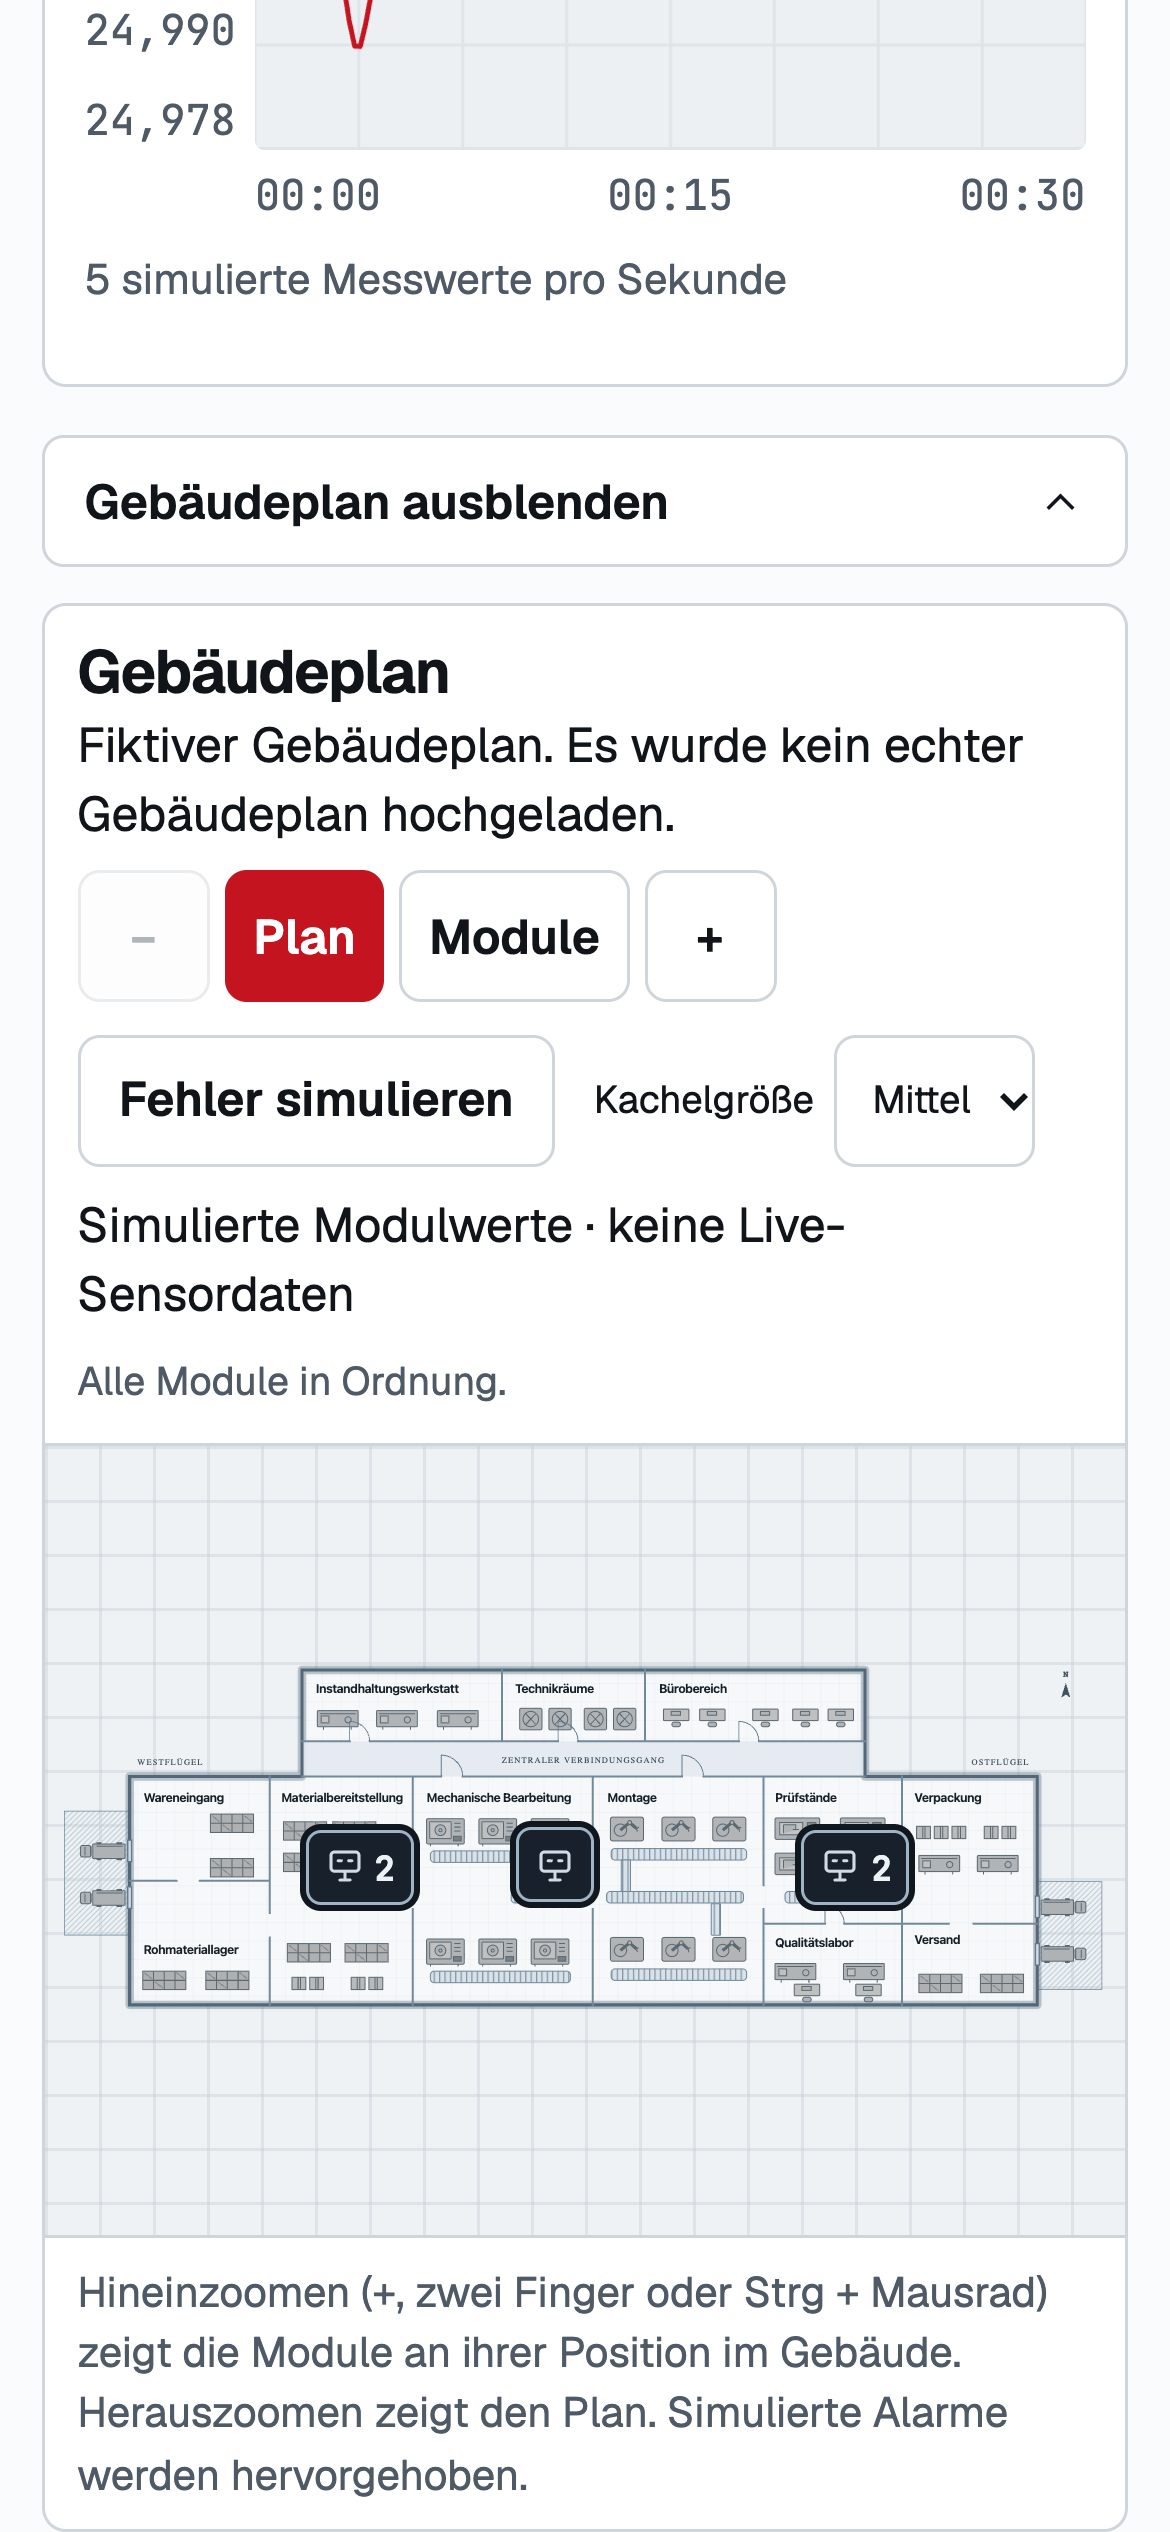
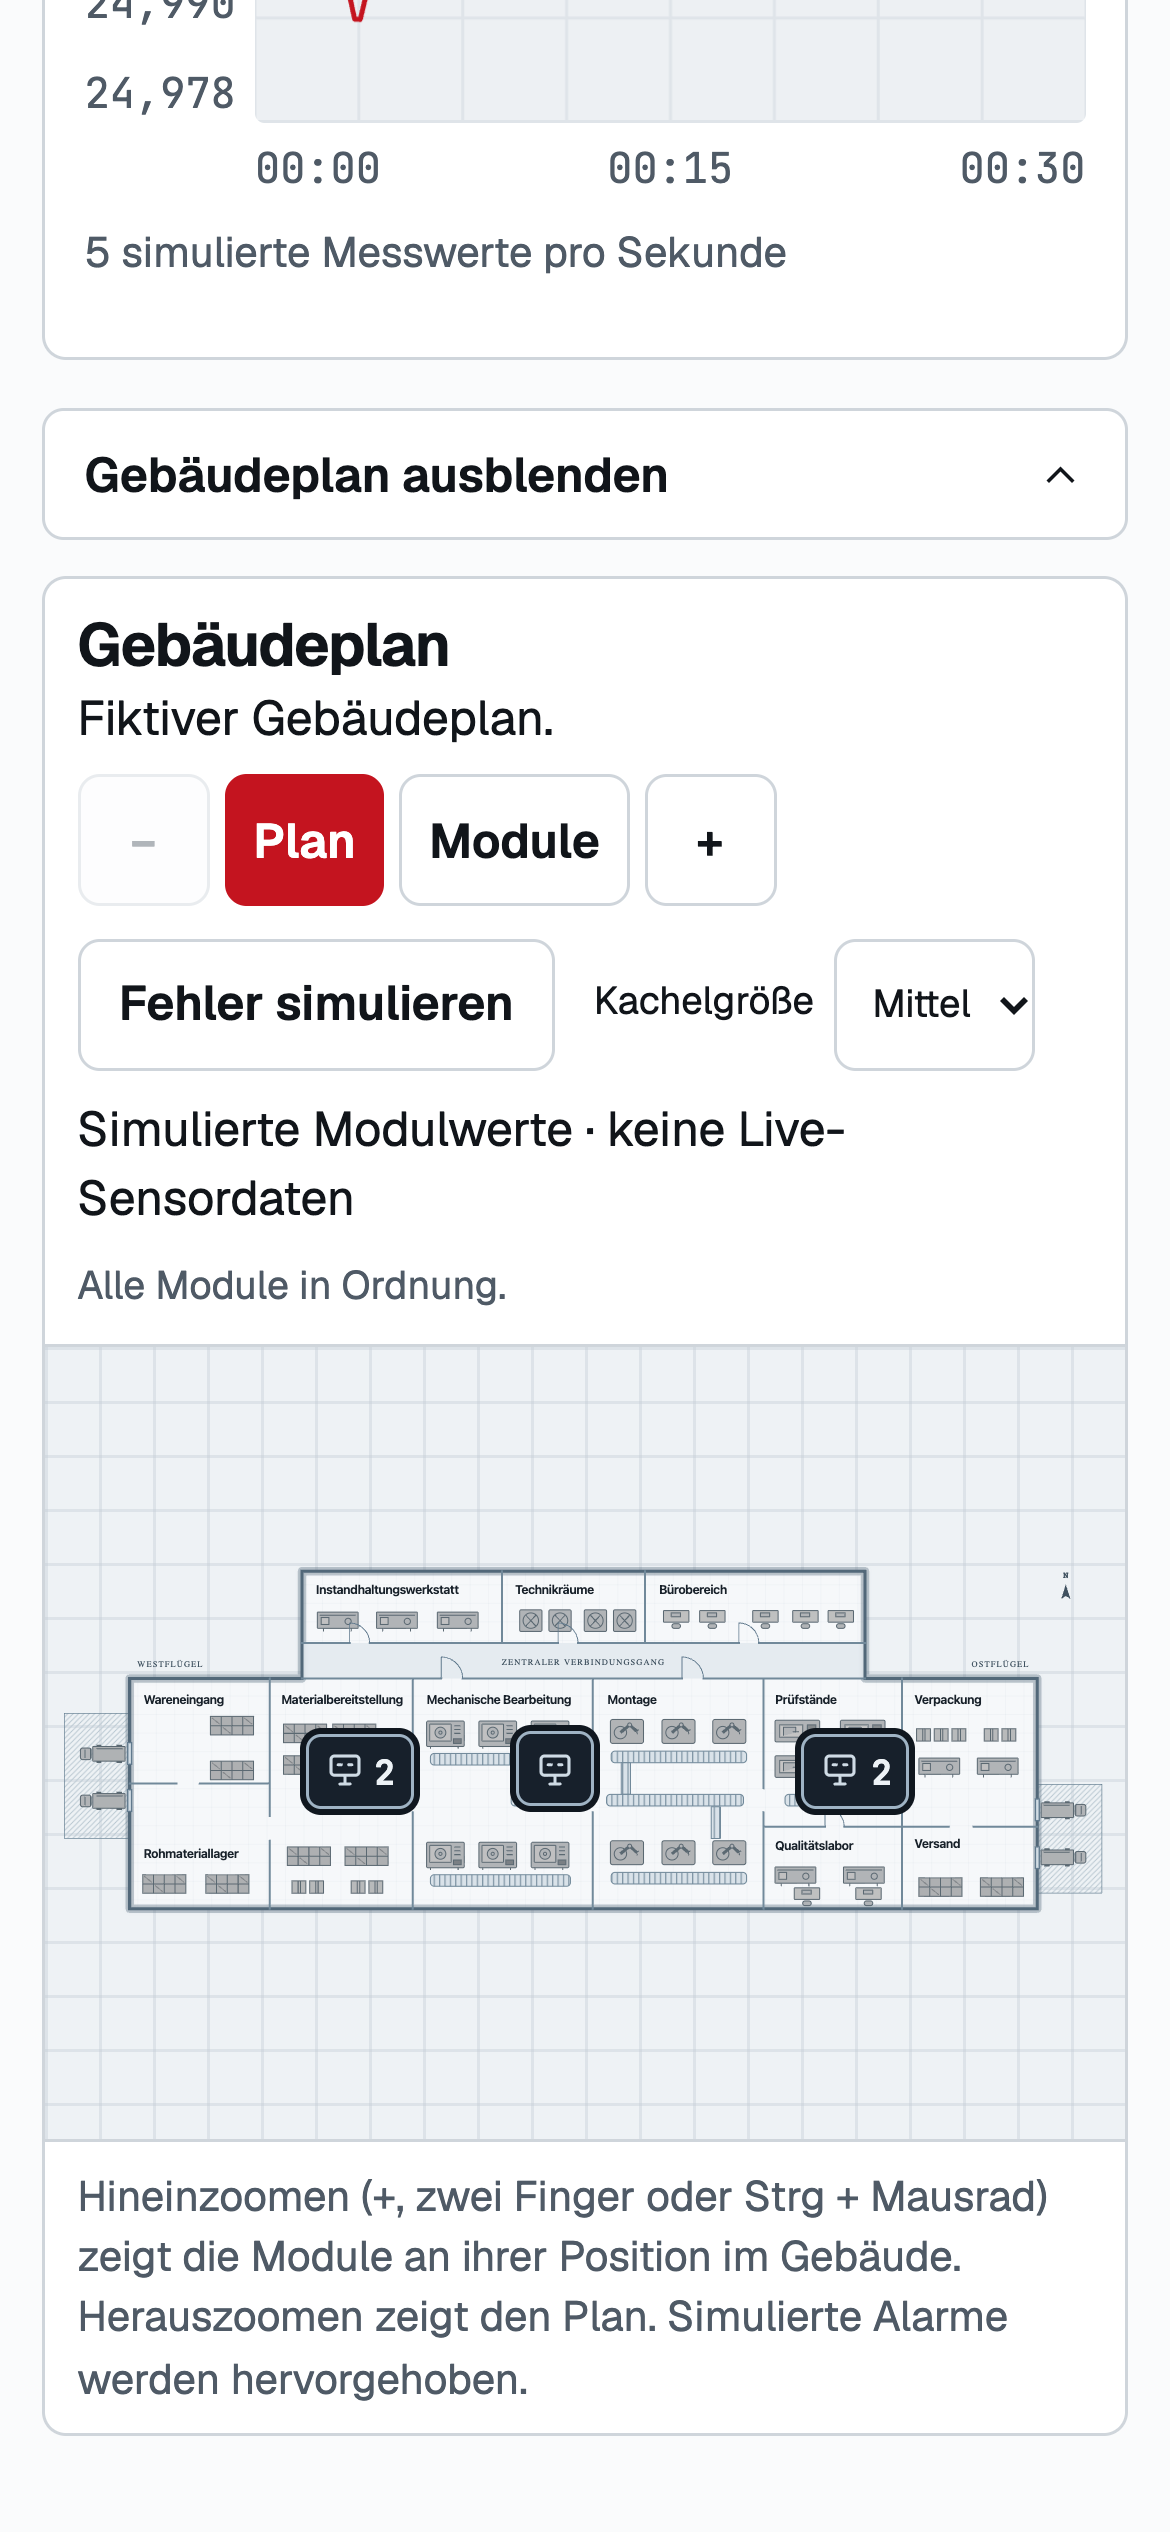
Phone view: light module view and alarm badge; phone README with pictures and hotspot setup
- fabrikplan.css: in the light colour scheme the module grid, boxes, tiles and alarm states use the page's light
  colours (the desktop cockpit keeps its own styles); alarm badge white on red
- karte.mjs: plan note matches the translation table, so it is translated in every language
- Handy frontend README: install and open on the phone (WLAN or hotspot, IP address, QR code), troubleshooting,
  features, how serve.py works, with fresh screenshots

diff --git a/frontend/Handy frontend/fabrikplan/fabrikplan.css b/frontend/Handy frontend/fabrikplan/fabrikplan.css
@@ -221,3 +221,31 @@
 }
 :where([data-theme="light"]) .factory-section .factory-links line { stroke: #60798d; }
 :where([data-theme="light"]) .factory-section .factory-links circle { fill: #18212a; stroke: #eef2f5; }
+
+/* Light colour scheme: module view (grid, boxes, tiles) in the page's light colours; alarms stay red. */
+:where([data-theme="light"]) .factory-section .factory-grid { background: var(--surface2); border-color: var(--border); }
+:where([data-theme="light"]) .factory-section .factory-module { background: var(--surface); border-color: var(--border); color: var(--ink); }
+:where([data-theme="light"]) .factory-section .factory-module-place,
+:where([data-theme="light"]) .factory-section .factory-tile-quantity,
+:where([data-theme="light"]) .factory-section .factory-tile-state,
+:where([data-theme="light"]) .factory-section .factory-tile-value small { color: var(--muted); }
+:where([data-theme="light"]) .factory-section .factory-tile { background: var(--surface2); border-color: var(--border); color: var(--ink); }
+:where([data-theme="light"]) .factory-section .factory-tile:hover,
+:where([data-theme="light"]) .factory-section .factory-tile[aria-pressed="true"] { border-color: var(--ink); }
+:where([data-theme="light"]) .factory-section .factory-chip { background: color-mix(in srgb, var(--good) 14%, var(--surface)); color: var(--good); }
+@keyframes factory-alarm-blink-light {
+  0%, 100% { background: var(--surface); box-shadow: 0 0 0 0 transparent; }
+  50% { background: #ffd9dc; box-shadow: 0 0 0 3px #e0293a66; }
+}
+:where([data-theme="light"]) .factory-section .factory-module[data-alarm="active"],
+:where([data-theme="light"]) .factory-section .factory-tile[data-alarm="active"] { border-color: var(--error); animation-name: factory-alarm-blink-light; }
+:where([data-theme="light"]) .factory-section .factory-module[data-alarm="latched"],
+:where([data-theme="light"]) .factory-section .factory-tile[data-alarm="latched"] { border-color: var(--error); background: color-mix(in srgb, var(--error) 7%, var(--surface)); }
+:where([data-theme="light"]) .factory-section .factory-tile[data-alarm="active"] .factory-tile-state,
+:where([data-theme="light"]) .factory-section .factory-tile[data-alarm="latched"] .factory-tile-state { color: var(--error); }
+@media (prefers-reduced-motion: reduce) {
+  :where([data-theme="light"]) .factory-section .factory-module[data-alarm="active"],
+  :where([data-theme="light"]) .factory-section .factory-tile[data-alarm="active"] { animation: none; background: #ffd9dc; }
+}
+:where([data-theme="light"]) .factory-section .factory-chip[data-state="active"],
+:where([data-theme="light"]) .factory-section .factory-chip[data-state="latched"] { background: var(--error); color: #fff; animation: none; }

diff --git a/frontend/Handy frontend/index.html b/frontend/Handy frontend/index.html
@@ -7,7 +7,7 @@
   <title>Sensor Cockpit · Micro-Epsilon</title>
   <link rel="icon" href="assets/favicon.svg" type="image/svg+xml">
   <link rel="stylesheet" href="style.css?v=ui-review-3">
-  <link rel="stylesheet" href="fabrikplan/fabrikplan.css?v=theme-live-1">
+  <link rel="stylesheet" href="fabrikplan/fabrikplan.css?v=theme-live-2">
   <script type="module" src="app.mjs?v=desktop-plan-live-1"></script>
 </head>
 <body>

diff --git a/frontend/Handy frontend/README.md b/frontend/Handy frontend/README.md
@@ -1,47 +1,122 @@
 # Micro-Epsilon · Mobiles Sensor Cockpit
 
-Unter **Demodaten** läuft das Standardprofil „Abstand prüfen“ aus der Desktop-UI. Dieselbe Formel simuliert fünf Abstandswerte pro Sekunde um 25 mm. Die Simulation läuft lokal im Browser. Im Dropdown steht derzeit dieser eine Datensatz.
+Die Handy-Ansicht des Messplatzes: aktueller Messwert und Verlauf der letzten 30 Sekunden, Live-Daten des
+angeschlossenen Sensors und der Gebäudeplan mit Modulen und Alarmen. Sie läuft im Browser des Handys, ohne App.
+Das Handy liest nur: Einstellungen am Sensor oder am Messplatz lassen sich von hier aus nicht ändern.
 
-## Auf dem Handy öffnen
+| Messansicht (hell) | Messansicht (dunkel) | Gebäudeplan |
+|---|---|---|
+| ![Handy-Ansicht hell: Abstand 25,002 mm und Messverlauf](../../docs/images/phone-light.png) | ![Handy-Ansicht dunkel](../../docs/images/phone-dark.png) | ![Gebäudeplan auf dem Handy, helles Farbschema](../../docs/images/phone-factory.png) |
 
-Starte im Stammordner des Repositorys den Handy-Server mit Python 3.
+| Module mit Alarm | Live-Daten (hier ohne angeschlossenen Sensor) |
+|---|---|
+| ![Modulansicht: Messkopf A der Materialbereitstellung blinkt rot im Alarm](../../docs/images/phone-modules.png) | ![Live-Daten-Tab: zeigt an, dass gerade kein Sensor misst](../../docs/images/phone-live.png) |
 
-```sh
-python "frontend/Handy frontend/serve.py"
+## Installieren und auf dem Handy öffnen
+
+Die Handy-Ansicht gehört zum Messplatz und wird mit ihm installiert. Auf dem Handy wird nichts installiert.
+
+1. **Messplatz einrichten und starten**, wie in der [Installationsanleitung](../../README.md#installation)
+   beschrieben (`./start.sh`, unter Windows `start.bat`).
+2. **Handy und Rechner ins selbe Netz bringen.** Entweder beide im selben WLAN, oder der Rechner verbindet sich
+   mit dem **Hotspot des Handys** (Handy: Einstellungen → Persönlicher Hotspot bzw. Mobiler Hotspot einschalten;
+   Rechner: dieses WLAN auswählen). Der Hotspot ist der sichere Weg, wenn das WLAN Geräte voneinander trennt, wie
+   eduroam und viele Gäste-WLANs. Für die Verbindung zwischen Handy und Rechner verbraucht er kein Datenvolumen.
+3. **Handy-Server starten**, in einem zweiten Terminal im Programmordner, während der Messplatz läuft:
+
+   ```sh
+   python3 "frontend/Handy frontend/serve.py"
+   ```
+
+   Unter Windows: `py "frontend\Handy frontend\serve.py"`. Fragt die Firewall, ob Python Verbindungen annehmen darf,
+   für private Netze erlauben.
+4. **IP-Adresse des Rechners herausfinden:**
+
+   | System | Befehl | Typische Adresse im Handy-Hotspot |
+   |---|---|---|
+   | macOS | `ipconfig getifaddr en0` | iPhone: `172.20.10.x`, Android: `192.168.x.x` |
+   | Linux | `hostname -I` (erste Adresse) | wie oben |
+   | Windows | `ipconfig`, Zeile „IPv4-Adresse“ beim WLAN-Adapter | wie oben |
+
+5. **Auf dem Handy öffnen:** `http://<IP-Adresse>:4174/`, also zum Beispiel `http://172.20.10.3:4174/`. Wichtig sind
+   `http://` (nicht `https://`) und der Port `:4174`.
+
+   Für einen QR-Code: die Adresse am Rechner im Browser öffnen, dann in Chrome **Menü ⋮ → Streamen, speichern und
+   teilen → QR-Code erstellen** bzw. in Edge das QR-Symbol in der Adressleiste; das Handy scannt ihn mit der Kamera. Der mitgelieferte `handy-qr.png` enthält eine feste
+   Adresse aus einem früheren WLAN und passt nur dort.
+
+Am Rechner selbst ist die Handy-Ansicht ohne zweiten Server unter http://127.0.0.1:8000/handy/ erreichbar.
+
+### Wenn das Handy die Seite nicht lädt
+
+| Problem | Lösung |
+|---|---|
+| Seite lädt ewig oder „nicht erreichbar“ | Rechner und Handy im selben Netz? Im Hotspot muss der **Rechner** mit dem Handy verbunden sein. Im Uni- oder Gäste-WLAN den Hotspot nutzen |
+| Seite lädt, aber „Messserver nicht erreichbar“ | läuft `./start.sh` noch? Der Handy-Server leitet nur weiter und braucht den Messplatz auf Port 8000 |
+| Messplatz läuft auf einem anderen Port | `python3 "frontend/Handy frontend/serve.py" --backend-port 8001` |
+| Port 4174 ist belegt | `python3 "frontend/Handy frontend/serve.py" --port 4175`, dann `http://<IP>:4175/` öffnen |
+| Firewall-Abfrage verpasst | macOS: Systemeinstellungen → Netzwerk → Firewall → Optionen, Python erlauben. Windows: Windows-Sicherheit → Firewall → App zulassen |
+| Alte Ansicht nach einem Update | Seite auf dem Handy neu laden; hilft das nicht, die Browserdaten der Seite löschen |
+
+## Was die Ansicht kann
+
+**Demodaten.** Ohne Sensor läuft das Standardprofil „Abstand prüfen“ aus dem Cockpit: dieselbe Formel simuliert fünf
+Abstandswerte pro Sekunde um 25 mm, lokal im Browser. Im Dropdown steht derzeit dieser eine Datensatz.
+
+**Live-Daten.** Ist am Rechner ein Sensor verbunden und geprüft, öffnet die Ansicht direkt den Tab **Live-Daten**:
+Sensor, aktueller Messwert und Verlauf der letzten 15 Sekunden. Fällt der Server oder der Sensor kurz aus, fragt die
+Ansicht selbst erneut nach. Sie zeigt nur Geräte, die der Gerätecheck des Messplatzes bestätigt hat.
+
+**Gebäudeplan: Plan und Module.** Unter **Gebäudeplan anzeigen** zeigt die Gesamtansicht den Hallenplan mit den
+Modulen (Stationen). Hineinzoomen (**+**, zwei Finger auseinander, Strg + Mausrad oder Antippen einer Gruppe) wechselt
+zur **Modulansicht**: Jede Station wird eine Kachel, und die Kacheln behalten ihre Lage aus dem Plan (was rechts
+liegt, bleibt rechts). Herauszoomen (**−**, zwei Finger zusammen) zeigt wieder den Plan. Die Kachelgröße ist
+einstellbar (klein, mittel, groß).
+
+- Jede Kachel zeigt ihre Sensoren mit Messwert. Ein angeschlossener echter Sensor speist ein Modul, markiert mit
+  **LIVE** (ILD1900: Qualitätskontrolle · Messkopf A, thermoMETER: Mechanische Bearbeitung); sein Alarm kommt von der
+  KI des Messplatzes oder von einem ungültigen Messwert. Die übrigen Module sind simuliert.
+- Liegt ein Wert außerhalb seiner Grenzen, **blinkt das Modul rot**, im Plan und in der Modulansicht. Nach dem
+  Ausschlag bleibt es rot umrandet, bis jemand **Alarm quittieren** antippt.
+- **Fehler simulieren** lässt nacheinander je einen simulierten Sensor ausschlagen (Demo und Test).
+- Plan und Module folgen dem hellen oder dunklen Farbschema. Bei reduzierter Bewegung (Systemeinstellung) blinkt
+  nichts, das Modul ist dann dauerhaft rot; der Text nennt den Zustand immer zusätzlich.
+
+**Bedienung.** Die Zeitachse zeigt ein mitlaufendes 30-Sekunden-Fenster. **Anzeige pausieren** hält die Darstellung
+an; beim Fortsetzen springt sie zur aktuellen Zeit. Unter **Anzeige** (Zahnrad) stehen Sprache (zehn Sprachen),
+Farbschema, Schriftgröße, farbsehfreundlicher Modus und Sprachausgabe für Statuswechsel. Im Querformat füllt der
+Messgraph den Bildschirm; beim Zurückdrehen erscheinen die Bedienelemente wieder.
+
+## Wie es funktioniert
+
+```mermaid
+flowchart LR
+  H[Handy-Browser] -- http, Port 4174 --> P[serve.py<br/>Handy-Server]
+  P -- nur lesend: /api/status, /api/latest, /api/device --> B[Messplatz<br/>127.0.0.1:8000]
+  S[Sensor] -- USB --> B
 ```
 
-Verbinde das Handy mit demselben WLAN wie den Rechner. Öffne dann [den Messplatz](http://10.19.233.145:4174/) oder scanne den [QR-Code](handy-qr.png). Beides führt direkt zur Messansicht. Bei einer anderen WLAN-Adresse ersetze `10.19.233.145` durch die IPv4-Adresse des Rechners. Unter Windows zeigt sie `ipconfig` beim WLAN-Adapter an. Der mitgelieferte QR-Code verwendet die oben angegebene Adresse.
+`serve.py` liefert die Dateien dieses Ordners aus und leitet genau drei lesende Anfragen an den Messplatz weiter.
+Der Messplatz selbst bleibt nur am Rechner erreichbar (`127.0.0.1`), sodass niemand im Netz Sensor oder Einstellungen
+ändern kann. Optionen: `--bind` (Standard `0.0.0.0`), `--port` (Standard `4174`), `--backend-port` (Standard `8000`).
 
-## Echte Live-Daten sehen
+| Datei | Inhalt |
+|---|---|
+| `index.html`, `app.mjs`, `style.css` | Seite, Bedienung, Darstellung |
+| `live-view.mjs`, `live-data.mjs` | Tab Live-Daten |
+| `demo.mjs`, `recordings.mjs` | Demodaten und Wiedergabe von Aufnahmen |
+| `fabrikplan/` | Gebäudeplan, Module, Live-Modul, Simulation (auch vom Cockpit am Rechner verwendet) |
+| `serve.py` | Handy-Server |
 
-1. Starte den vorhandenen Sensorserver am Rechner und verbinde den Sensor über die PC-Ansicht.
-2. Öffne am Handy **Live-Daten**. Der Monitor zeigt den Sensor, den aktuellen Messwert und den Verlauf der letzten 15 Sekunden. Die Verbindung wird automatisch erneut abgefragt, wenn der Server oder der Sensor vorübergehend ausfällt.
+## Tests
 
-Der Handy-Server liest standardmäßig vom Sensorserver auf Port 8000 desselben Rechners. Läuft dieser auf Port 8001, starte den Handy-Server mit `python "frontend/Handy frontend/serve.py" --backend-port 8001`. Die Desktop-Demo funktioniert auch bei rein statischer Bereitstellung dieses Verzeichnisses.
-
-## Fabrikplan: Plan und Modulansicht
-
-Unter **Fabrikplan anzeigen** zeigt die Gesamtansicht den Hallenplan mit den Modulen (Stationen). Hineinzoomen (**+**,
-zwei Finger auseinander, Strg + Mausrad oder Antippen einer Gruppe) wechselt zur **Modulansicht**: Jede Station wird
-eine Kachel, und die Kacheln behalten ihre Lage aus dem Plan (was rechts oben liegt, bleibt rechts oben). Herauszoomen
-(**−**, zwei Finger zusammen) zeigt wieder den Plan. Die Kachelgröße ist einstellbar (klein, mittel, groß).
-
-Jede Kachel zeigt ihre Sensoren mit einem simulierten Messwert. Liegt ein Wert außerhalb seiner Grenzen, **blinkt das
-Modul rot**, in der Modulansicht und auf dem Plan. Nach dem Ende des Ausschlags bleibt es rot umrandet, bis jemand
-**Alarm quittieren** antippt. **Fehler simulieren** lässt nacheinander je einen Sensor ausschlagen (Demo und Test).
-Bei reduzierter Bewegung (Systemeinstellung) blinkt nichts, das Modul ist dann dauerhaft rot; der Text sagt den
-Zustand immer zusätzlich an.
-
-## Bedienung und Prüfungen
-
-Die Zeitachse zeigt ein mitlaufendes 30-Sekunden-Fenster. Sie beginnt bei 00:00–00:30 und schiebt sich danach mit der Messzeit weiter. **Anzeige pausieren** hält die Darstellung an. Beim Fortsetzen zeigt die Demo wieder das aktuelle Zeitfenster. Farbschema, Schriftgröße, farbsehfreundlicher Modus und Sprachausgabe für Live-Statuswechsel stehen unter **Anzeige**.
-
-Im Handy-Querformat füllt der Messgraph mit seinen Achsen den Bildschirm. Beim Zurückdrehen erscheinen die Bedienelemente wieder.
-
-Die Tests vergleichen die Demo auf dem Handy direkt mit den Werten und Sollgrenzen der Desktop-UI. Sie prüfen außerdem, dass das 30-Sekunden-Fenster ohne Rücksprung durchläuft und nur Messpunkte des sichtbaren Zeitraums enthält.
-
-Wiederhole die automatisierten Tests mit Node.js ab Version 20 aus diesem Ordner.
+Mit Node.js ab Version 20, in diesem Ordner:
 
 ```sh
 node --test tests/*.test.mjs
+python3 -m unittest tests/test_serve.py
 ```
+
+Die Tests vergleichen die Demo auf dem Handy mit den Werten und Sollgrenzen des Cockpits, prüfen das 30-Sekunden-Fenster
+ohne Rücksprung, den Gebäudeplan (Kachelanordnung, Alarme, Quittieren) und dass der Handy-Server nur lesende Anfragen
+weiterleitet.

diff --git a/README.md b/README.md
@@ -131,6 +131,7 @@ Dann auf dem Handy `http://<IP-Adresse des Rechners>:4174/` öffnen. Die IP-Adre
 (macOS), `hostname -I` (Linux) oder `ipconfig` beim WLAN-Adapter (Windows). Fragt die Firewall, ob Python
 Verbindungen annehmen darf, erlaube es für private Netze. Das Handy kann nur lesen: Der Handy-Server gibt nur
 Messwerte und Gerätestatus weiter, keine Einstellungen.
+Schritt für Schritt mit Bildern, Hotspot und QR-Code: [Handy-Ansicht](frontend/Handy%20frontend/README.md).
 
 ### Aktualisieren und Entfernen
 
